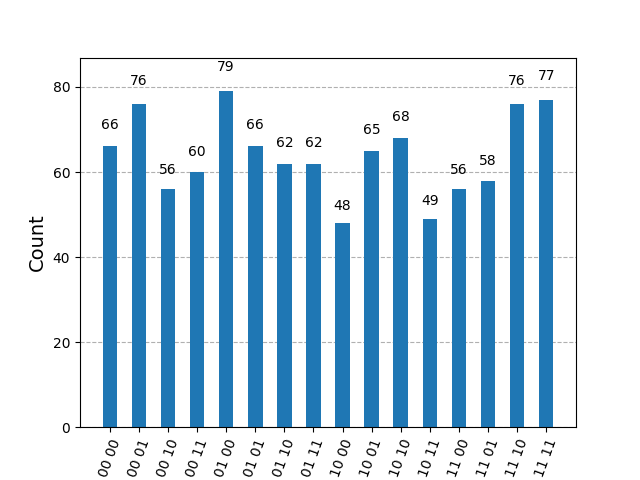
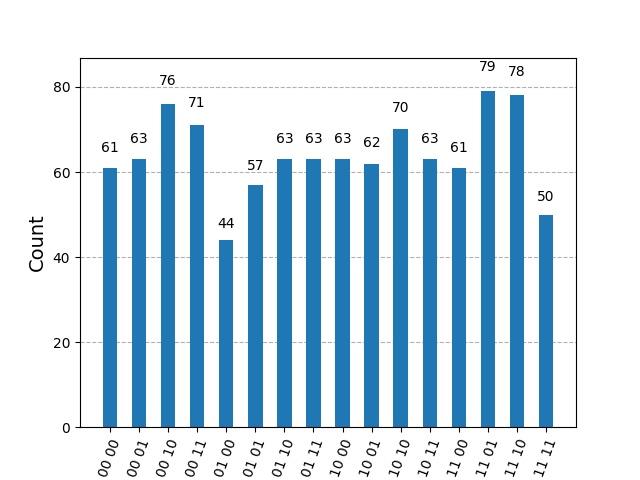
Adding multi cnot without uncomp code images

diff --git a/qcnc_paper_code/qcnc_circuits.py b/qcnc_paper_code/qcnc_circuits.py
@@ -135,7 +135,12 @@ def basic_circuit_with_sub_uncomp(dir='qcnc_paper_code/'):
     return circuit, dir+'qcnc_paper_figures/basic_circuit_with_sub_uncomp'
 
 def multi_cnot_simple(dir='qcnc_paper_code/'):
-    circuit = QuantumCircuit(4)
+    c0 = QuantumRegister(1, 'c0')
+    c1 = QuantumRegister(1, 'c1')
+    c2 = QuantumRegister(1, 'c2')
+    o = QuantumRegister(1, 'o')
+    
+    circuit = QuantumCircuit(c0,c1,c2,o)
     circuit.x(range(3))
     circuit.mcx([0,1,2], 3)
     circuit.draw('mpl', initial_state=True, plot_barriers=False, idle_wires=False, filename=dir+'qcnc_paper_figures/multi_cnot_simple')
@@ -144,17 +149,20 @@ def multi_cnot_simple(dir='qcnc_paper_code/'):
     return circuit, dir+'qcnc_paper_figures/multi_cnot_simple'
 
 def multi_cnot_with_ancilla(dir='qcnc_paper_code/'):
-    input_q = QuantumRegister(4, 'q')
-    # input_c = ClassicalRegister(4, 'qc')
-    ancilla_q = QuantumRegister(1, 'a')
-    # ancilla_c = ClassicalRegister(1, 'ac')
+    c0 = QuantumRegister(1, 'c0')
+    c1 = QuantumRegister(1, 'c1')
+    c2 = QuantumRegister(1, 'c2')
+    o = QuantumRegister(1, 'o')
+    a = QuantumRegister(1, 'a')
+    
+    circuit = QuantumCircuit(c0,c1,c2,o, a)
 
-    circuit = QuantumCircuit(input_q, ancilla_q)
+    # circuit = QuantumCircuit(input_q, ancilla_q)
 
     circuit.x(range(3))
     circuit.ccx(0,1,4)
     circuit.ccx(2,4,3)
-    circuit.ccx(0,1,4)
+    # circuit.ccx(0,1,4)
     
     # Drawing before measurement to not have the measurement features show up
     circuit.draw('mpl', initial_state=True, plot_barriers=False, idle_wires=False, filename=dir+'qcnc_paper_figures/multi_cnot_with_ancilla')
@@ -163,9 +171,33 @@ def multi_cnot_with_ancilla(dir='qcnc_paper_code/'):
 
     return circuit, dir+'qcnc_paper_figures/multi_cnot_with_ancilla'
 
+def multi_cnot_with_ancilla_and_uncomp(dir='qcnc_paper_code/'):
+    c0 = QuantumRegister(1, 'c0')
+    c1 = QuantumRegister(1, 'c1')
+    c2 = QuantumRegister(1, 'c2')
+    o = QuantumRegister(1, 'o')
+    a = QuantumRegister(1, 'a')
+    
+    circuit = QuantumCircuit(c0,c1,c2,o, a)
+
+    # circuit = QuantumCircuit(input_q, ancilla_q)
+
+    circuit.x(range(3))
+    circuit.ccx(0,1,4)
+    circuit.ccx(2,4,3)
+    circuit.ccx(0,1,4)
+    
+    # Drawing before measurement to not have the measurement features show up
+    circuit.draw('mpl', initial_state=True, plot_barriers=False, idle_wires=False, filename=dir+'qcnc_paper_figures/multi_cnot_with_ancilla_and_uncomp')
+    
+    circuit.measure_all()
+
+    return circuit, dir+'qcnc_paper_figures/multi_cnot_with_ancilla_and_uncomp'
+
 # print(os.)
 run_measurements(basic_circuit())
 run_measurements(basic_circuit_with_uncomp())
 run_measurements(basic_circuit_with_sub_uncomp())
 run_measurements(multi_cnot_simple())
 run_measurements(multi_cnot_with_ancilla())
+run_measurements(multi_cnot_with_ancilla_and_uncomp())
